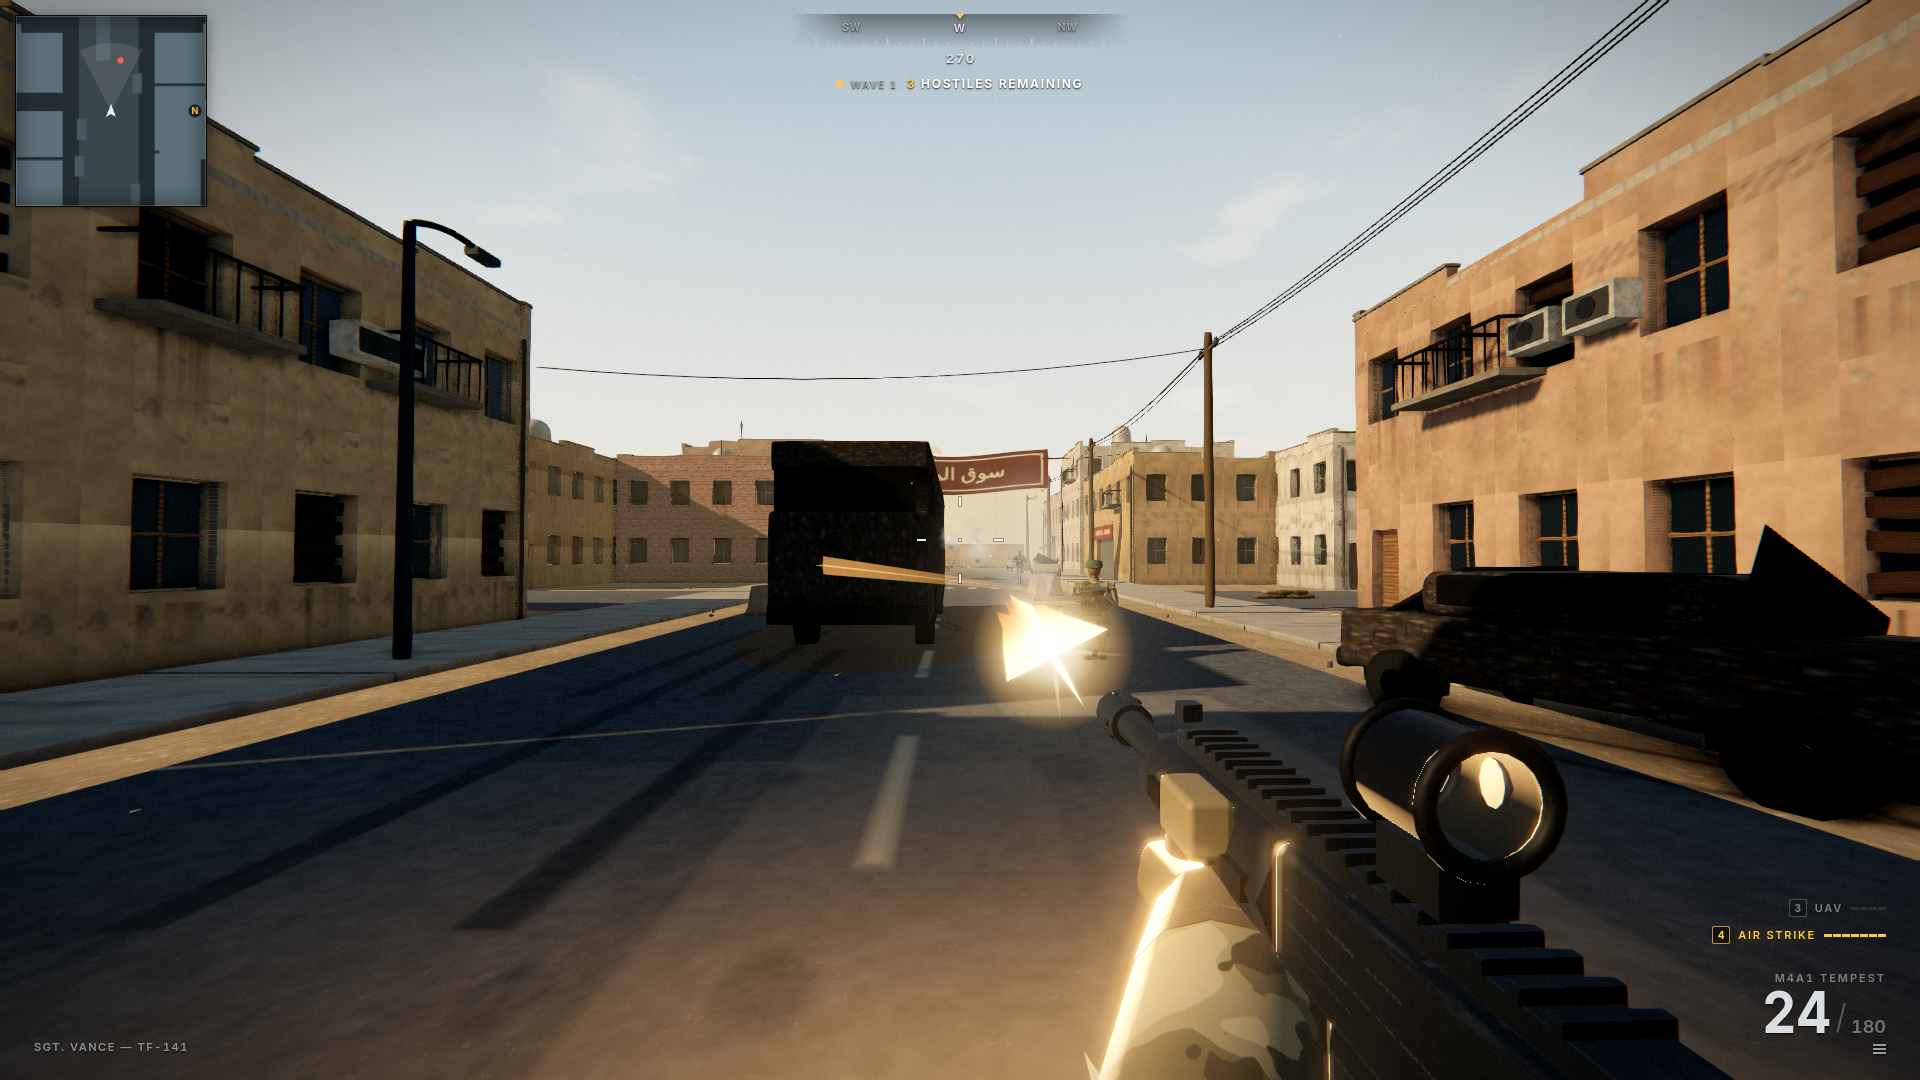
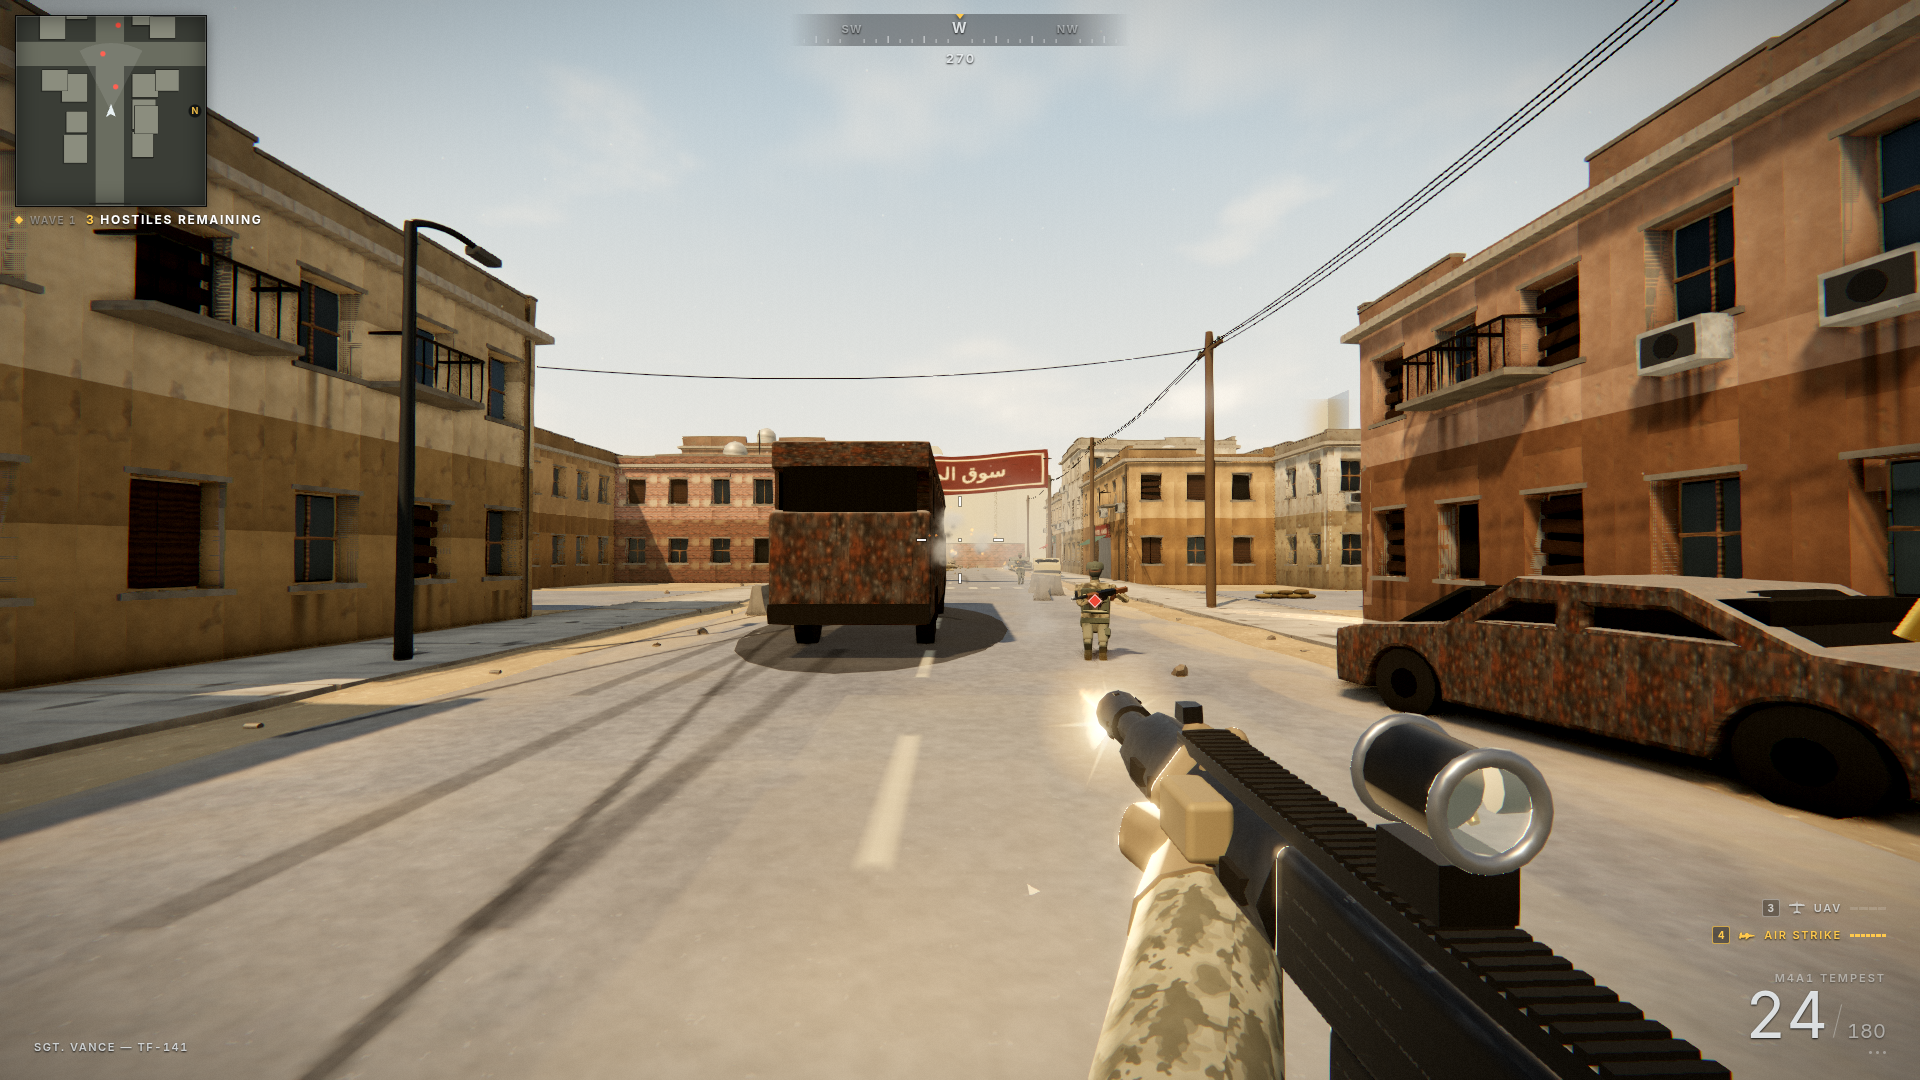
Polish: white-pop blast pulse, ADS recoil timing, smaller brass, streaked burn material, graphite optic rims

diff --git a/src/world/props.js b/src/world/props.js
@@ -56,30 +56,45 @@ function burnedMetalMat() {
     // daylight, not a featureless black silhouette
     ctx.fillStyle = '#55504a';
     ctx.fillRect(0, 0, size, size);
-    // Panel-scale rust fields first (the dominant accent, ~40-60% coverage)
-    for (let i = 0; i < 26; i++) {
-      const x = r() * size, y = r() * size, rad = 48 + r() * 110;
+    // Large soot zones first — the burn core dominates the cabin/top areas
+    for (let i = 0; i < 6; i++) {
+      const x = r() * size, y = r() * size * 0.6, rad = 110 + r() * 160;
       const g = ctx.createRadialGradient(x, y, 0, x, y, rad);
-      g.addColorStop(0, `rgba(138, 74, 38, ${0.3 + r() * 0.3})`);
+      g.addColorStop(0, `rgba(30, 26, 22, ${0.4 + r() * 0.25})`);
       g.addColorStop(1, 'rgba(0,0,0,0)');
       ctx.fillStyle = g;
       ctx.fillRect(x - rad, y - rad, rad * 2, rad * 2);
     }
-    // Smaller rust / ash / scorch blotches for breakup
-    for (let i = 0; i < 460; i++) {
-      const x = r() * size, y = r() * size, rad = 4 + r() * 46;
+    // A few large connected rust fields, elongated vertically so they read
+    // as heat-run oxidation, not leopard spots. Desaturated, low contrast.
+    for (let i = 0; i < 8; i++) {
+      const x = r() * size, y = r() * size, rad = 80 + r() * 130;
+      ctx.save();
+      ctx.translate(x, y);
+      ctx.scale(1, 1.7 + r() * 0.6);
+      const g = ctx.createRadialGradient(0, 0, 0, 0, 0, rad);
+      g.addColorStop(0, `rgba(112, 66, 40, ${0.22 + r() * 0.2})`);
+      g.addColorStop(0.6, `rgba(96, 58, 38, ${0.12 + r() * 0.12})`);
+      g.addColorStop(1, 'rgba(0,0,0,0)');
+      ctx.fillStyle = g;
+      ctx.fillRect(-rad, -rad, rad * 2, rad * 2);
+      ctx.restore();
+    }
+    // Small ash / scorch breakup (rust only occasionally)
+    for (let i = 0; i < 220; i++) {
+      const x = r() * size, y = r() * size, rad = 4 + r() * 34;
       const g = ctx.createRadialGradient(x, y, 0, x, y, rad);
       const kind = r();
-      const col = kind < 0.5 ? '138, 74, 38' : kind < 0.78 ? '148, 141, 130' : '48, 42, 36';
-      g.addColorStop(0, `rgba(${col}, ${0.2 + r() * 0.4})`);
+      const col = kind < 0.25 ? '112, 66, 40' : kind < 0.66 ? '138, 132, 122' : '44, 38, 33';
+      g.addColorStop(0, `rgba(${col}, ${0.14 + r() * 0.26})`);
       g.addColorStop(1, 'rgba(0,0,0,0)');
       ctx.fillStyle = g;
       ctx.fillRect(x - rad, y - rad, rad * 2, rad * 2);
     }
-    // Vertical scorch streaks
-    for (let i = 0; i < 70; i++) {
-      ctx.fillStyle = `rgba(20, 17, 14, ${r() * 0.4})`;
-      ctx.fillRect(r() * size, r() * size, 2 + r() * 7, 20 + r() * 90);
+    // Vertical scorch streaks running down the panels
+    for (let i = 0; i < 90; i++) {
+      ctx.fillStyle = `rgba(22, 19, 16, ${0.08 + r() * 0.3})`;
+      ctx.fillRect(r() * size, r() * size, 2 + r() * 6, 30 + r() * 130);
     }
     _burnTexSet = tex(c, { srgb: true, repeat: [2, 1] });
   }

diff --git a/src/core/engine.js b/src/core/engine.js
@@ -53,14 +53,16 @@ const GradeShader = {
       col.g = texture2D(tDiffuse, uv).g;
       col.b = texture2D(tDiffuse, uv - c * ca).b;
 
-      // Lift + contrast (filmic-ish S), blast pulse lifts blacks warm
-      col = max(vec3(0.0), col + uLift + uPulse * 0.05);
+      // Lift + contrast (filmic-ish S); blast pulse is a brief white
+      // exposure pop (overpressure flash), not a warm colour cast
+      col = max(vec3(0.0), col * (1.0 + uPulse * 0.30) + uLift + uPulse * 0.06);
       col = (col - 0.5) * uContrast + 0.5;
 
-      // Saturation + warm military grade + warm-grey split-toned shadows
+      // Saturation + warm military grade + warm-grey split-toned shadows.
+      // Pulse momentarily desaturates (concussion white-out).
       float lum = dot(col, vec3(0.2126, 0.7152, 0.0722));
-      col = mix(vec3(lum), col, uSat);
-      float w = uWarmth + uPulse * 0.03;
+      col = mix(vec3(lum), col, uSat * (1.0 - uPulse * 0.15));
+      float w = uWarmth;
       col += vec3(w, w * 0.45, -w * 0.5) * lum;
       col += vec3(0.010, 0.004, -0.006) * (1.0 - lum);
 
@@ -88,7 +90,7 @@ export class Engine {
       stencil: false,
     });
     this.renderer.toneMapping = THREE.ACESFilmicToneMapping;
-    this.renderer.toneMappingExposure = 0.98;
+    this.renderer.toneMappingExposure = 0.95;
     this.renderer.outputColorSpace = THREE.SRGBColorSpace;
     this.renderer.shadowMap.enabled = true;
     this.renderer.shadowMap.type = THREE.PCFSoftShadowMap;
@@ -177,7 +179,7 @@ export class Engine {
   render(t) {
     const dt = Math.min(0.1, Math.max(0.0001, t - this._lastT));
     this._lastT = t;
-    this._pulse *= Math.exp(-4.5 * dt);
+    this._pulse *= Math.exp(-12 * dt);
     this.grade.uniforms.uTime.value = t;
     this.grade.uniforms.uPulse.value = this._pulse;
 

diff --git a/src/weapons/models.js b/src/weapons/models.js
@@ -339,7 +339,7 @@ export function buildRifleViewmodel() {
   const optic = new THREE.Group();
   const tubeGeo = new THREE.CylinderGeometry(0.0155, 0.0155, 0.055, 16, 1, true);
   tubeGeo.rotateX(Math.PI / 2);
-  const tube = new THREE.Mesh(tubeGeo, new THREE.MeshStandardMaterial({ color: 0x1b1c1e, roughness: 0.4, metalness: 0.7 }));
+  const tube = new THREE.Mesh(tubeGeo, new THREE.MeshStandardMaterial({ color: 0x1b1c1e, roughness: 0.4, metalness: 0.7, envMapIntensity: 0.4 }));
   optic.add(tube);
   // Short matte hood at the objective end only — daylight reads through
   const innerGeo = new THREE.CylinderGeometry(0.0143, 0.0143, 0.024, 16, 1, true);
@@ -349,11 +349,12 @@ export function buildRifleViewmodel() {
   }));
   inner.position.z = -0.0145;
   optic.add(inner);
-  // Bright machined lens rims so the tube mouths catch daylight from hip view
+  // Machined lens rims — subtle graphite catch, not a warm mirror (a bright
+  // alloy rim picks up the desert env and reads rust-brown at ADS)
   for (const z of [-0.028, 0.028]) {
     const rimGeo = new THREE.TorusGeometry(0.0155, 0.003, 8, 20);
     const rim = new THREE.Mesh(rimGeo, new THREE.MeshStandardMaterial({
-      color: 0x878c92, roughness: 0.28, metalness: 0.85, envMapIntensity: 1.4,
+      color: 0x43464a, roughness: 0.35, metalness: 0.85, envMapIntensity: 0.7,
     }));
     rim.position.z = z;
     optic.add(rim);

diff --git a/src/fx/tracers.js b/src/fx/tracers.js
@@ -97,11 +97,11 @@ export class TracerSystem {
 
 /** Merged tapered rifle case: body + neck cone + extractor rim. */
 function casingGeometry() {
-  const body = new THREE.CylinderGeometry(0.0044, 0.0048, 0.037, 12);
-  const neck = new THREE.CylinderGeometry(0.0028, 0.0044, 0.008, 12);
-  neck.translate(0, 0.0185 + 0.004, 0);
-  const rim = new THREE.CylinderGeometry(0.005, 0.005, 0.001, 12);
-  rim.translate(0, -0.0185 - 0.0005, 0);
+  const body = new THREE.CylinderGeometry(0.0036, 0.0039, 0.030, 12);
+  const neck = new THREE.CylinderGeometry(0.0023, 0.0036, 0.0065, 12);
+  neck.translate(0, 0.015 + 0.0032, 0);
+  const rim = new THREE.CylinderGeometry(0.0041, 0.0041, 0.001, 12);
+  rim.translate(0, -0.015 - 0.0005, 0);
   return mergeGeometries([body, neck, rim]);
 }
 

diff --git a/src/ai/enemies.js b/src/ai/enemies.js
@@ -292,8 +292,9 @@ function buildSoldier(variant = 0) {
     mk(G.collar, cloth, torsoPivot, 0, 0.585, 0.01);
   } else if (variant % 3 === 1) {
     // Keffiyeh wrap + face scarf + tail, shemagh coil at the neck.
-    // Mid-value wrap (0x8f8266): stops blowing out to a white ping-pong ball.
-    const wrapMat = vary(new THREE.MeshStandardMaterial({ color: 0x8f8266, roughness: 1 }));
+    // Kept well below white — under the 4.5-intensity sun anything lighter
+    // blows out to a ping-pong ball.
+    const wrapMat = vary(new THREE.MeshStandardMaterial({ color: 0x776b52, roughness: 1 }));
     mk(G.wrap, wrapMat, headPivot, 0, 0.135, 0);
     mk(G.scarf, wrapMat, headPivot, 0, 0.085, 0.03);
     mk(G.tail, wrapMat, headPivot, 0.05, -0.02, -0.125).rotation.x = 0.25;

diff --git a/src/photo/photomode.js b/src/photo/photomode.js
@@ -59,10 +59,11 @@ const SCENARIOS = {
       capture: 148,
       onFrame: (f) => {
         if (f === 40) g.weapons.wantAds = true;
-        // Shot fires on update 146: at capture the flash is spent, leaving a
-        // clean recoiling sight picture with brass in the air.
-        if (f === 145) { g.weapons.onTriggerDown(); }
-        if (f === 146) { g.weapons.onTriggerUp(); }
+        // Fire well before capture: recoil recovers (~0.35 s) so the sight
+        // picture is centred again, while the brass is still airborne but
+        // has arced away from the camera.
+        if (f === 126) { g.weapons.onTriggerDown(); }
+        if (f === 127) { g.weapons.onTriggerUp(); }
       },
     };
   },

diff --git a/src/ui/styles.css b/src/ui/styles.css
@@ -200,10 +200,10 @@ button, input, select { font: inherit; font-stretch: inherit; font-variant-numer
 /* --- enemy spot diamonds --- */
 #spot-layer { position: absolute; inset: 0; pointer-events: none; }
 .spot-diamond {
-  position: absolute; width: 10px; height: 10px; margin: -5px 0 0 -5px;
+  position: absolute; width: 7px; height: 7px; margin: -4px 0 0 -4px;
   background: var(--hud-red); border: 1px solid rgba(255, 255, 255, 0.9);
   transform: rotate(45deg); opacity: 0; transition: opacity 0.15s ease-out;
-  box-shadow: 0 0 6px rgba(255, 60, 40, 0.35);
+  box-shadow: 0 0 5px rgba(255, 60, 40, 0.3);
 }
 .spot-diamond.on { opacity: 0.9; }
 

diff --git a/src/ui/hud.js b/src/ui/hud.js
@@ -291,7 +291,7 @@ export class HUD {
       if (!e.alive || !e.hasLOS) continue;
       if (e.pos.distanceTo(playerPos) > 60) continue;
       // Project the head; skip anything behind the near plane.
-      v.set(e.pos.x, e.pos.y + 1.78 - (e.crouch || 0) * 0.45, e.pos.z);
+      v.set(e.pos.x, e.pos.y + 2.02 - (e.crouch || 0) * 0.45, e.pos.z);
       v.applyMatrix4(this.camera.matrixWorldInverse);
       if (v.z > -0.5) continue;
       v.applyMatrix4(this.camera.projectionMatrix);
